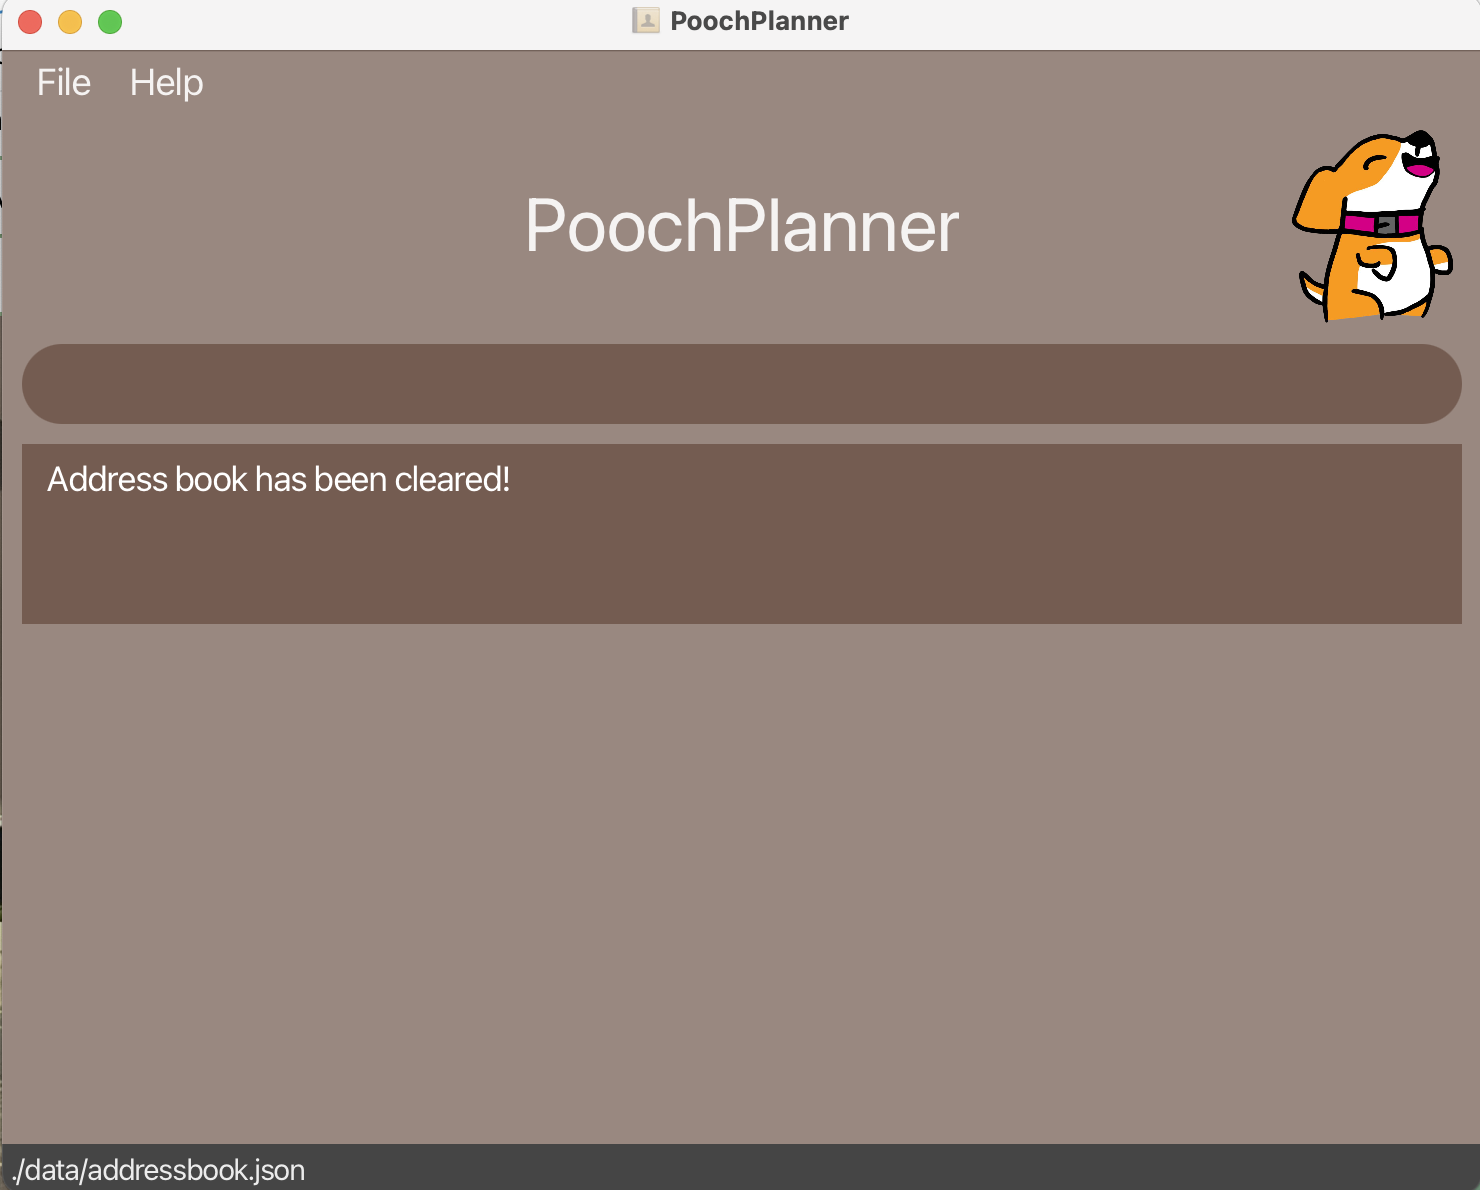
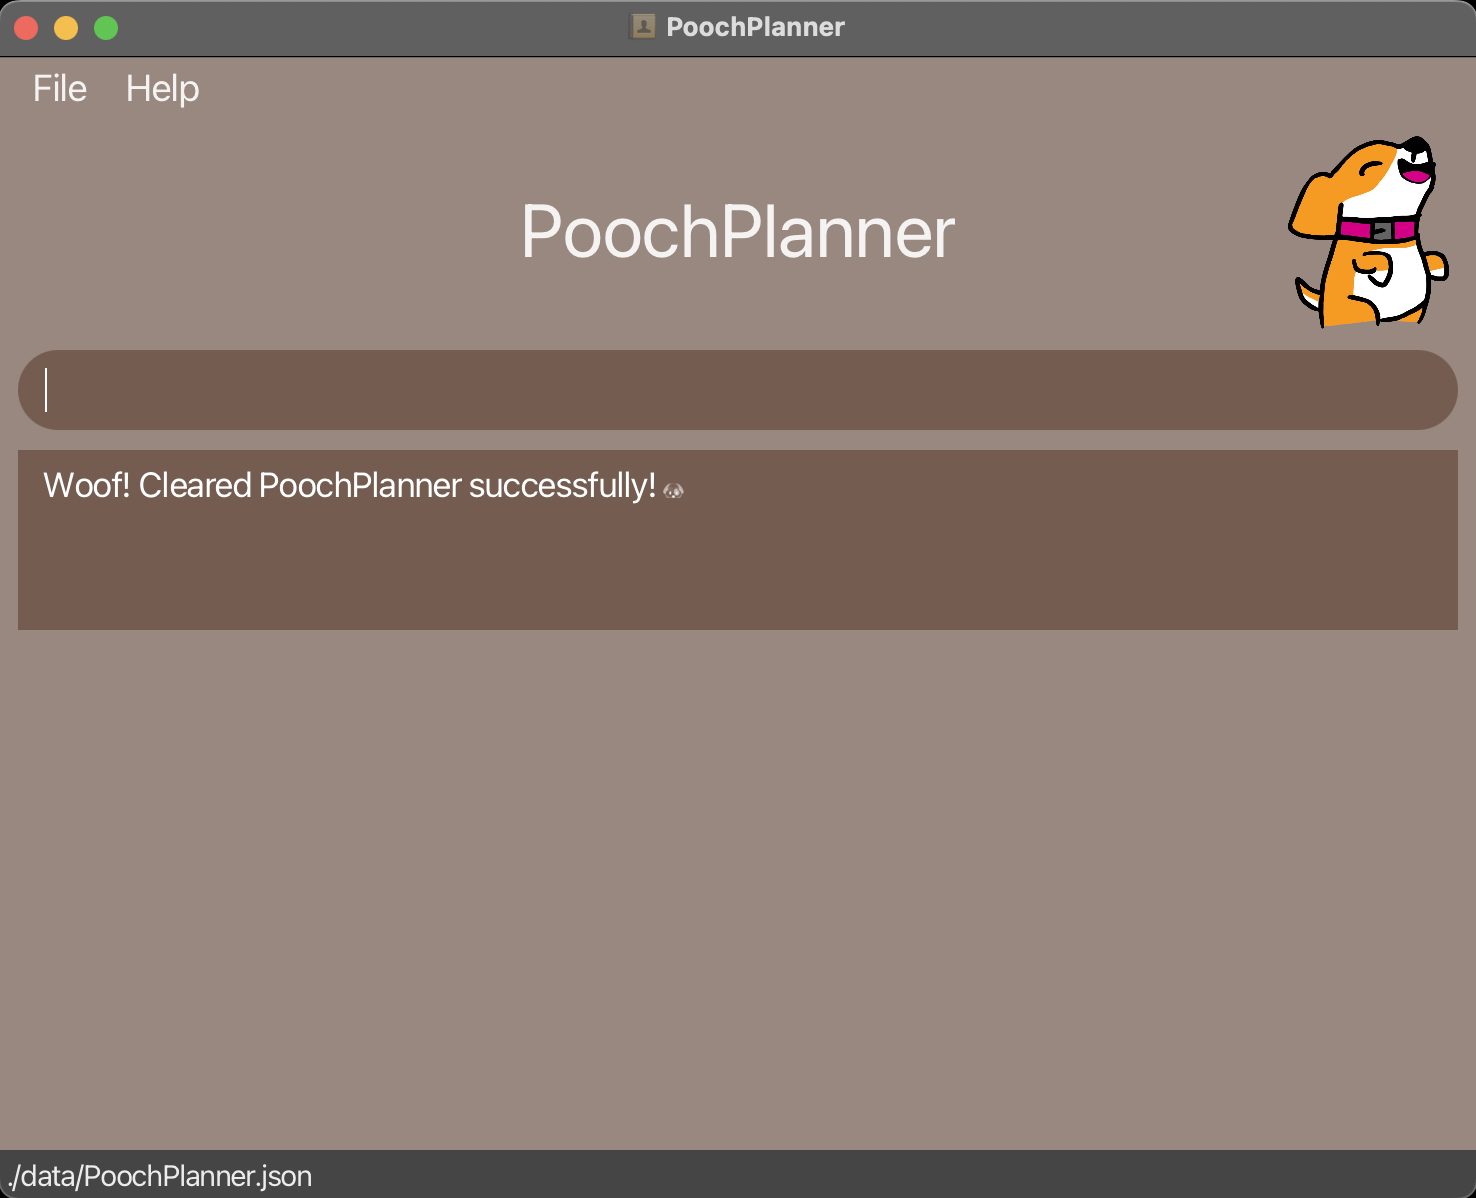
Update UG

diff --git a/src/main/java/seedu/address/logic/commands/ClearCommand.java b/src/main/java/seedu/address/logic/commands/ClearCommand.java
@@ -11,7 +11,7 @@ import seedu.address.model.Model;
 public class ClearCommand extends Command {
 
     public static final String COMMAND_WORD = "/clear";
-    public static final String MESSAGE_SUCCESS = "Address book has been cleared!";
+    public static final String MESSAGE_SUCCESS = "Woof! Cleared PoochPlanner successfully! 🐶";
 
 
     @Override

diff --git a/src/main/java/seedu/address/logic/parser/ArgumentTokenizer.java b/src/main/java/seedu/address/logic/parser/ArgumentTokenizer.java
@@ -87,6 +87,7 @@ public class ArgumentTokenizer {
         }
         return unknownPrefixes;
     }
+    
 
     /**
      * Extracts and concatenates all alphabetical substrings from the provided input string.
